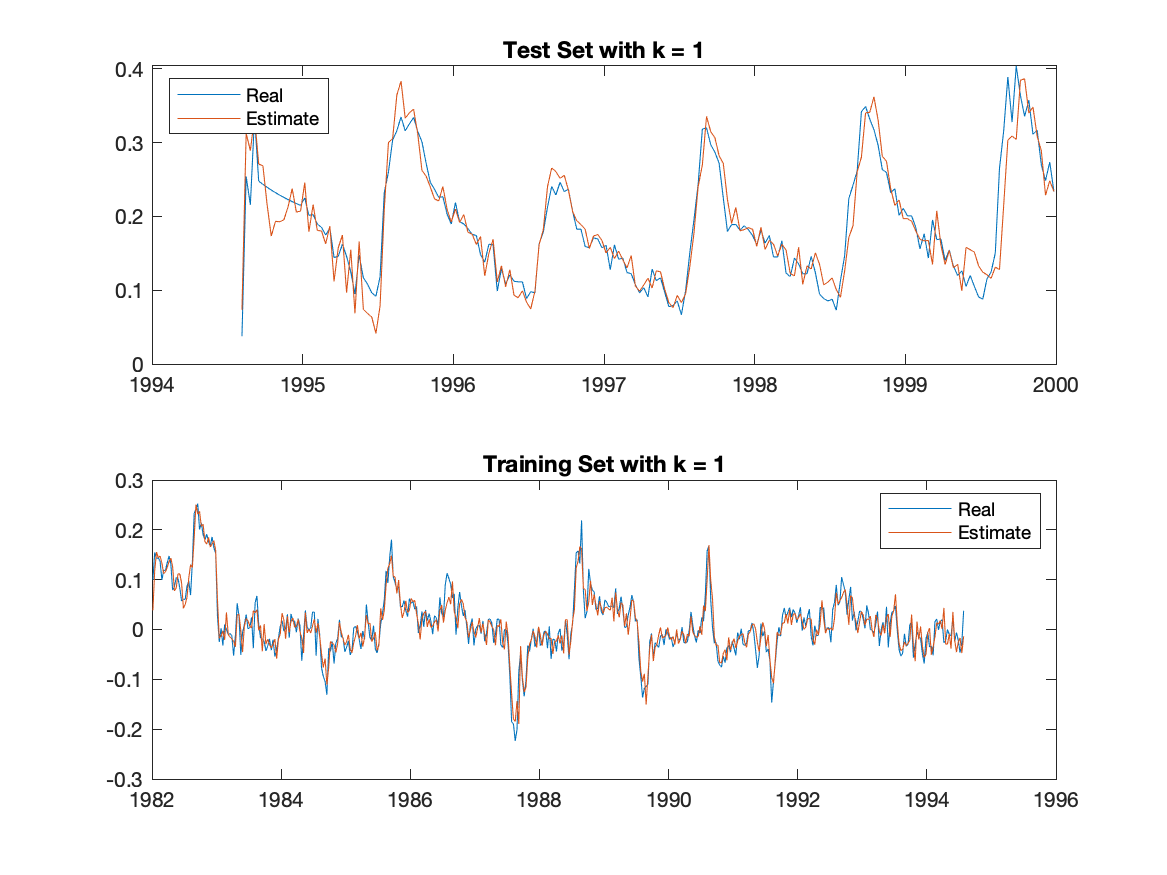
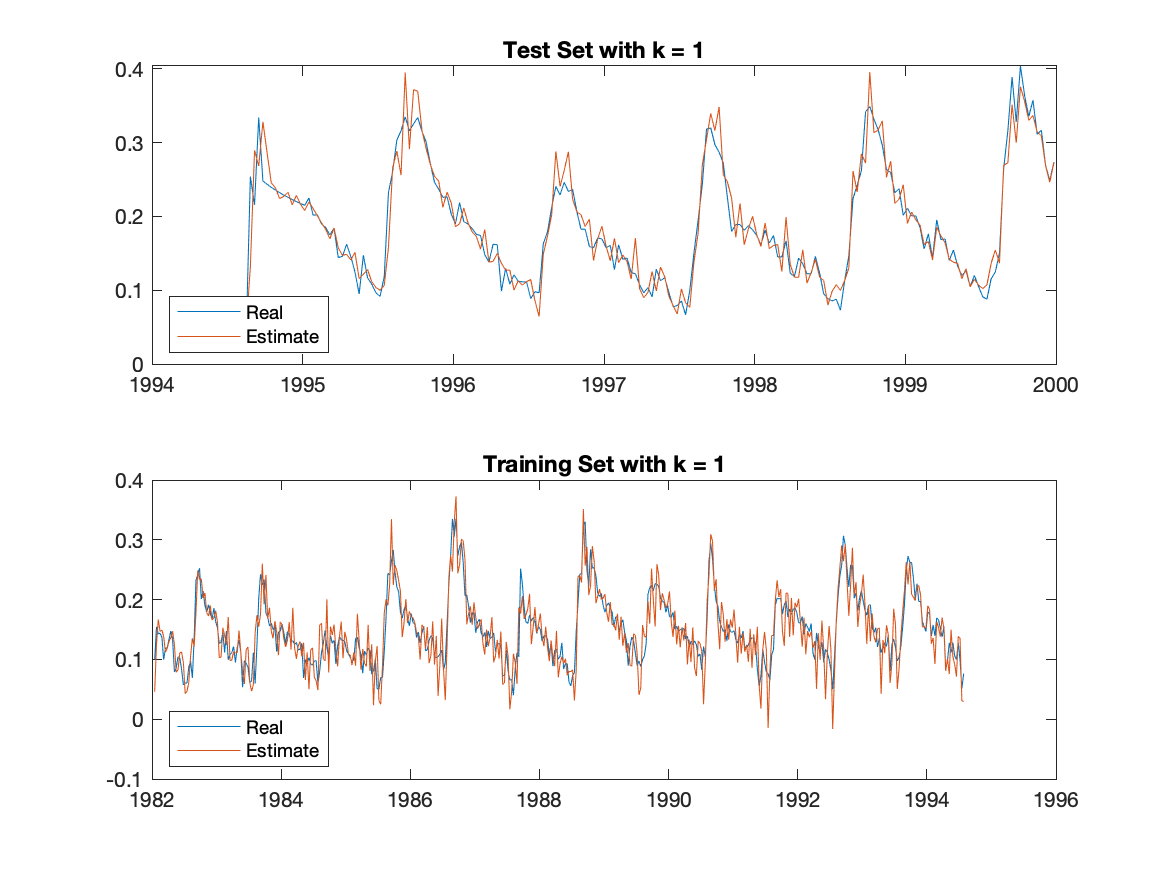
Add final models and final plots.

diff --git a/ErikS/B_newTransform_normalRain.m b/ErikS/B_newTransform_normalRain.m
@@ -154,7 +154,7 @@ present(Model_B_A2)
 %resid(Model_B_A2, data)
 
 % Analyze x to select orders for A1 and C1.
-% A1 order 1, C1 order 0 seems reasonable.
+% A1 order 1, C1 order 1 with additional order 36 seems reasonable.
 x = ndvi - filter(Model_B_A2.B, Model_B_A2.F, rain);
 analyzets(x)
 
@@ -180,7 +180,7 @@ C1 = [1 zeros(1,36)];
 
 data = iddata(ndvi_s, rain_s);
 model_init = idpoly(1, B, C1, A1, A2);
-model_init.Structure.c.Free = [1 zeros(1,35) 1];
+model_init.Structure.c.Free = [1 1 zeros(1,34) 1];
 
 MboxJ = pem(data, model_init);
 present(MboxJ)
@@ -204,7 +204,7 @@ plotNTdist(finalRes.y)
 close all;
 clc;
 
-k = 1;
+k = 10;
 
 % Predict on data with season removed.
 ndvi_test_s = filter(A36, 1, ndvi_test);
@@ -220,23 +220,23 @@ pred_train = predict(MboxJ, data, k);
 pred_test.y = filter(1, A36, pred_test.y);
 data_test.y = filter(1, A36, data_test.y);
 
-%pred_train.y = filter(1, A36, pred_train.y);
-%data_train.y = filter(1, A36, data_train.y);
+pred_train.y = filter(1, A36, pred_train.y);
+data_train.y = filter(1, A36, data_train.y);
 
 
 subplot(2,1,1)
-plot(ndvi_t_test, data_test.y)
+plot(ndvi_t_test(k+1:end), data_test.y(1:end-k))
 hold on
-plot(ndvi_t_test, pred_test.y)
+plot(ndvi_t_test(k+1:end), pred_test.y(1:end-k))
 title('Test Set')
-legend('Real','Estimate', 'location', 'northwest')
+legend('Real','Estimate', 'location', 'southwest')
 
 subplot(2,1,2)
-plot(ndvi_t, data_train.y)
+plot(ndvi_t(k+1:end), data_train.y(1:end-k))
 hold on
-plot(ndvi_t, pred_train.y)
+plot(ndvi_t(k+1:end), pred_train.y(1:end-k))
 title('Training Set')
-legend('Real','Estimate')
+legend('Real','Estimate', 'location', 'southwest')
 
 
 
@@ -246,31 +246,40 @@ legend('Real','Estimate')
 
 %% Predict and save plots for k as 1 through 10
 
-
 for k = 1:10
-    
     close all;
     clc;
 
-    data_test = iddata(ndvi_test, rain_test);
+    ndvi_test_s = filter(A36, 1, ndvi_test);
+    rain_test_s = filter(A36, 1, rain_test);
+
+    data_test = iddata(ndvi_test_s, rain_test_s);
     pred_test = predict(MboxJ, data_test, k);
 
-    data_train = iddata(ndvi_s, rain);
+    data_train = iddata(ndvi_s, rain_s);
     pred_train = predict(MboxJ, data, k);
 
+    % Add back season when plotting.
+    pred_test.y = filter(1, A36, pred_test.y);
+    data_test.y = filter(1, A36, data_test.y);
+
+    pred_train.y = filter(1, A36, pred_train.y);
+    data_train.y = filter(1, A36, data_train.y);
+
+    % Plot
     subplot(2,1,1)
-    plot(ndvi_t_test, data_test.y)
+    plot(ndvi_t_test(k+1:end), data_test.y(1:end-k))
     hold on
-    plot(ndvi_t_test, pred_test.y)
+    plot(ndvi_t_test(k+1:end), pred_test.y(1:end-k))
     title(sprintf('Test Set with k = %d', k))
-    legend('Real','Estimate', 'location', 'northwest')
+    legend('Real','Estimate', 'location', 'southwest')
 
     subplot(2,1,2)
-    plot(ndvi_t, data_train.y)
+    plot(ndvi_t(k+1:end), data_train.y(1:end-k))
     hold on
-    plot(ndvi_t, pred_train.y)
+    plot(ndvi_t(k+1:end), pred_train.y(1:end-k))
     title(sprintf('Training Set with k = %d', k))
-    legend('Real','Estimate')
+    legend('Real','Estimate', 'location', 'southwest')
     
     saveas(gcf,sprintf('Plots/PredPlots/k%d_normal.png', k))
 

diff --git a/ErikS/B_newTransform_logRain.m b/ErikS/B_newTransform_logRain.m
@@ -140,7 +140,6 @@ hold off
 d = 2;
 s = 4;
 r = 1;
-
 % idpoly(A,B,C,D,F,NoiseVariance,Ts)
 % A(q) y(t) = [B(q)/F(q)] u(t) + [C(q)/D(q)] e(t)
 A2 = [1 zeros(1,r)];
@@ -184,7 +183,7 @@ C1 = [1 zeros(1,36)];
 
 data = iddata(ndvi_s, rain_s);
 model_init = idpoly(1, B, C1, A1, A2);
-model_init.Structure.c.Free = [1 zeros(1,35) 1];
+model_init.Structure.c.Free = [1 1 1 zeros(1,33) 1];
 
 MboxJ = pem(data, model_init);
 present(MboxJ)
@@ -200,7 +199,6 @@ analyzets(finalRes.y)
 
 figure(3)
 plotNTdist(finalRes.y)
-
 
 
 
@@ -224,59 +222,70 @@ pred_train = predict(MboxJ, data, k);
 pred_test.y = filter(1, A36, pred_test.y);
 data_test.y = filter(1, A36, data_test.y);
 
-%pred_train.y = filter(1, A36, pred_train.y);
-%data_train.y = filter(1, A36, data_train.y);
+pred_train.y = filter(1, A36, pred_train.y);
+data_train.y = filter(1, A36, data_train.y);
 
 
 subplot(2,1,1)
-plot(ndvi_t_test, data_test.y)
+plot(ndvi_t_test(k+1:end), data_test.y(1:end-k))
 hold on
-plot(ndvi_t_test, pred_test.y)
+plot(ndvi_t_test(k+1:end), pred_test.y(1:end-k))
 title('Test Set')
-legend('Real','Estimate', 'location', 'northwest')
+legend('Real','Estimate', 'location', 'southwest')
 
 subplot(2,1,2)
-plot(ndvi_t, data_train.y)
+plot(ndvi_t(k+1:end), data_train.y(1:end-k))
 hold on
-plot(ndvi_t, pred_train.y)
+plot(ndvi_t(k+1:end), pred_train.y(1:end-k))
 title('Training Set')
-legend('Real','Estimate')
+legend('Real','Estimate', 'location', 'southwest')
+
+
+
 
 
 
 
 %% Predict and save plots for k as 1 through 10
 
-data_test = iddata(ndvi_test, rain_test);
-data_train = iddata(ndvi_s, rain);
-
 for k = 1:10
-    
     close all;
     clc;
 
+    ndvi_test_s = filter(A36, 1, ndvi_test);
+    rain_test_s = filter(A36, 1, rain_test);
+
+    data_test = iddata(ndvi_test_s, rain_test_s);
     pred_test = predict(MboxJ, data_test, k);
 
+    data_train = iddata(ndvi_s, rain_s);
     pred_train = predict(MboxJ, data, k);
 
+    % Add back season when plotting.
+    pred_test.y = filter(1, A36, pred_test.y);
+    data_test.y = filter(1, A36, data_test.y);
+
+    pred_train.y = filter(1, A36, pred_train.y);
+    data_train.y = filter(1, A36, data_train.y);
+
+    % Plot
     subplot(2,1,1)
-    plot(ndvi_t_test, data_test.y)
+    plot(ndvi_t_test(k+1:end), data_test.y(1:end-k))
     hold on
-    plot(ndvi_t_test, pred_test.y)
+    plot(ndvi_t_test(k+1:end), pred_test.y(1:end-k))
     title(sprintf('Test Set with k = %d', k))
-    legend('Real','Estimate', 'location', 'northwest')
+    legend('Real','Estimate', 'location', 'southwest')
 
     subplot(2,1,2)
-    plot(ndvi_t, data_train.y)
+    plot(ndvi_t(k+1:end), data_train.y(1:end-k))
     hold on
-    plot(ndvi_t, pred_train.y)
+    plot(ndvi_t(k+1:end), pred_train.y(1:end-k))
     title(sprintf('Training Set with k = %d', k))
-    legend('Real','Estimate')
+    legend('Real','Estimate', 'location', 'southwest')
     
     saveas(gcf,sprintf('Plots/PredPlots/k%d_log.png', k))
 
 end
-
 
 
 
